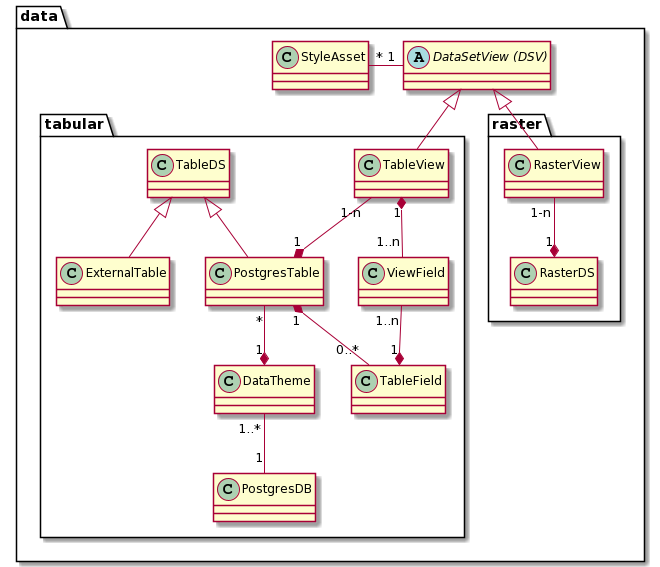
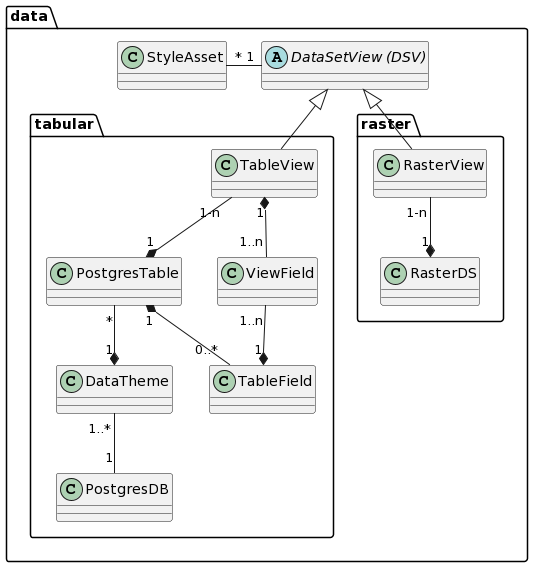
update modeldoc

diff --git a/modeldoc/theme.md b/modeldoc/theme.md
@@ -6,7 +6,7 @@ Bildet die Themen und Themenbereitstellungen ab (Datenbezug)
 
 ## Bemerkung zu den Attributbeschreibungen
 
-Ggf. werden die Beschreibungen mit den Tags $meta $port versehen, damit nach vollzogen werden kann, zu welchen Zwecken ein Attribut geführt wird. Falls weder $meta noch $port angegeben --> Attribut dient "nur" der internen Dokumentation.
+Ggf. werden die Beschreibungen mit den Tags $meta $port versehen, damit nachvollzogen werden kann, zu welchen Zwecken ein Attribut geführt wird. Falls weder $meta noch $port angegeben --> Attribut dient "nur" der internen Dokumentation.
 
 ## Klasse Theme
 
@@ -19,14 +19,66 @@ Im Datenschatz von Solothurn bestehen zwei Haupt-Typen von Themen:
 
 Für die Steuerung der GDI macht es keinen Unterschied, ob ein Thema ein Einzelthema oder eine Themengruppe ist, darum sind Einzelthema, Themengruppe nicht ausmodelliert.
 
+### Attributbeschreibung
+
+|Name|Typ|Z|Beschreibung|
+|---|---|---|---|
+|identifier|String(100)|j|Eindeutiger Identifier des Theme (ch.so.\[Amt\].\[Thema\]).|
+|title|String(200)|j|Angezeigter Titel des Themas.|
+|description|String(1000)|j|Kurze fachliche Bescheibung des Themas. Ziel: < 500 Zeichen Text. Kann HTML-Markup enthalten (\<br\/\>, \<a ...\>\<\/a\>)|
+|remarks|String|n|Interne Bemerkungen.|
+|keywords|String(200)|n|Stichworte. Können auch thematische Überbegriffe sein. Als Json-Array formatiert.|
+|synonyms|String(200)|n|Synonyme, sprich alternative treffende Titel für das Thema. Als Json-Array formatiert.|
+|remarks|String|n|Interne Bemerkungen.|
+
+### Konstraints
+
+UK auf identifier
+
 ## Klasse ThemePublication
 
 Konkrete Bereitstellung(en) eines Themas für einen Nutzungszweck. Beispiel Thema Verkehrszählung: Dessen Daten können lesend eingebunden werden -> Publikation ch.so.avt.verkehrszaelstellen.
 Oder als Quelle von komplexen Weiterverarbeitungen genutzt werden, in welchen die relationale Gliederung von Vorteil ist --> Publikation ch.so.avt.verkehrszaelstellen.edit.
 
+### Attributbeschreibung
+
+|Name|Typ|Z|Beschreibung|
+|---|---|---|---|
+|type|Enum|j|Typ der Publikation: vecSimple, vecRelational, nonVec, other. Bei vec* werden die verfügbaren Dateitypen automatisch hergeleitet.|
+|typeSuffixOverride|String(50)|(n)|Explizit gesetzter Suffix für den identifier. Bsp. **kommunal** für kommunale Nutzungsplanung.|
+|_typeSuffix|String(50)|j|Aus den type* Attributen hergeleiteter Suffix (readonly)|
+
+### Konstraints
+
+UK über _typeSuffix, "FK auf Thema"
+
+## Klasse FileType
+
+Informationen zu einem zum Download bereitgestellten Dateityp. Zip wird nicht erfasst, da immer als Ordner verwendet. Für die Benutzer nicht hilfreich, wenn
+beim Format jeweils immer "zip" steht.
+
+### Attributbeschreibung
+
+|Name|Typ|Z|Beschreibung|
+|---|---|---|---|
+|mimeType|String(255)|j|Mime-Type des Dateityps. Attribut ist auch der identifier für die automatische Zuordnung der "Vektor-Gebrauchsformate".|
+|name|String(100)|j|Sprechender Name des Dateityps.|
+|kuerzel|String(50)|j|$td.|
+
+### Konstraints
+
+UK auf mimeType
+
 ## Klasse DataSetView
 
 Siehe [DataSetView](data.md#klasse-datasetview-dsv) in Teilmodell "Data".
+
+### Konstraints
+
+* Keine Zuweisung auf TableViews mit "Rowfilter-View"
+* Innerhalb der gleichen Themen-Bereitstellung:
+  * TableViews müssen aus dem gleichen Schema stammen
+  * Kein Gemisch von TableView und RasterView
 
 ## Klasse OrgUnit
 
@@ -34,15 +86,46 @@ Organisationseinheit, welche zu den Themen-Bereitstellungen fachlich oder techni
 
 Da die technische Auskunft immer durch das AGI erfolgt, wird nur die Beziehung für die fachliche Auskunft ausmodelliert.
 
+### Attributbeschreibung
+
+Keine Attribute
+
 ## Klasse Agency
 
 Informationen zum Amt (AfU, ARP, AGI, ...). Punktuell ist der Klassenüberbegriff "Amt" nicht ganz zutreffend (Beispielsweise bei Daten der Solothurnischen Gebäudeversicherung).
 
-* Bezeichnung default "Amt" - Zwecks Präzisierung, falls Suborg erfasst, jedoch Amtstelefon angezeigt wird.
+### Attributbeschreibung
+
+|Name|Typ|Z|Beschreibung|
+|---|---|---|---|
+|name|String(100)|j|Name des Amts. Bsp: "Amt für Geoinformation"|
+|kuerzelAmt|String(10)|j|Kürzel für das Amt (AfU, ARP, ...).|
+|kuerzelStufe|String(10)|j|Kürzel für die Stufe. Default: Amt.|
+|url|String(100)|j|URL der Homepage des Amts.|
+|telefon|String(20)|j|Kennung und Vorwahl innerhalb CH: 032 212 66 77|
+|email|String(50)|j|Email-Adresse des Amtes|
+
+### Konstraints
+
+UK auf name   
+UK auf kuerzelAmt
 
 ## Klasse SubOrg
 
 Unterorganisation innerhalb eines Amts. Der Einfachheit halber wird nur eine Hierarchiestufe ausmodelliert (Es gibt keine SubSubOrg). Beispiel für die Erfassung eines Fachbereiches als SubOrg: "Fachbereich Altlasten (Abteilung Boden)"
+
+### Attributbeschreibung
+
+|Name|Typ|Z|Beschreibung|
+|---|---|---|---|
+|name|String(100)|j|Name der Unterorganisation. Bsp: "Abteilung Boden"|
+|url|String(100)|n|URL der Homepage des Amts.|
+|telefon|String(20)|n|Kennung und Vorwahl innerhalb CH: 032 212 66 77|
+|email|String(50)|n|Email-Adresse des Amtes|
+
+### Konstraints
+
+UK auf name und FK zum Amt (Wird nur bei kleinem Aufwand umgesetzt)
 
 ## Klasse DataCoverage
 
@@ -50,26 +133,47 @@ Datenabdeckungs-Ebene für 1-n Themen. Aus der Ebene gehen zwei Informationen he
 * Gibt es Gebiete im Kanton ohne Daten (Datenlücken)?
 * Sind die Daten für den Bezug im mehrere Stücke aufgeteilt? Und wenn ja: In welche Teilflächen (Polygone)?
 
-## Klasse PublishedExtent
-
-Mit dem "LastPublished date" wird in dieser Klasse gespeichert, wann eine Themenpublikation das letzte mal publiziert wurde. LastPublished wird für Vektordaten via GRETL-Publisher geschrieben.
-
-## Klasse Extent
-
-Fläche eines Teilgebietes des Kanton Solothurn.
-
-### Beispiel Attributbeschreibung
+### Attributbeschreibung
 
 |Name|Typ|Z|Beschreibung|
 |---|---|---|---|
-|identifier|String(100)|j|Eindeutiger hierarchischer Identifier des DataProduct (ch.so.fuu.bar).|
-|pubScope|enum|j|Gibt an, in welchen Diensten und Applikationen das DP publiziert ist. Details siehe [hier](../metamodel.md#ebenenpublikation-in-dataproduct).|
-|keywords|String(200)|n|Stichworte für das DataProduct. Können auch thematische Überbegriffe sein.|
-|remarks|String|n|Interne Bemerkungen.|
-|synonyms|String(200)|n|Synonyme für das DataProduct.|
-|title|String(200)|n|Angezeigter Titel (Bezeichnung) des Dataproduct. Falls null in Erstellungsphase wird identifier verwendet.|
-|description|String|n|Beschreibung|
+|identifier|String(100)|j|Eindeutige Kennung der Datenabdeckungs-Ebene|
 
-### Beispiel Konstraints
+### Konstraints
 
-Feld "identifier" ist GDI-weit eindeutig.
+UK auf identifier
+
+## Klasse PublishedArea
+
+Mit dem "LastPublished date" wird in dieser Klasse gespeichert, wann ein Teilgebiet einer Themenpublikation das letzte mal publiziert wurde. LastPublished wird für Vektordaten via GRETL-Publisher geschrieben.
+
+### Attributbeschreibung
+
+|Name|Typ|Z|Beschreibung|
+|---|---|---|---|
+|lastPublished|Date|n|Letzte (aktuellste) Publikation dieses Teils der ThemenBereitstellung. Optional, da für Vektoren vom Publisher (später) gesetzt.|
+
+### Konstraints
+
+UK über die FK
+
+## Klasse Area
+
+Fläche eines Teilgebietes des Kanton Solothurn. Alle 1-n Teilgebiete der gleichen Datenabdeckung bilden zusammen ein AREA-Datensatz, welcher 
+die Datenabdeckung innerhalb des Kt. Solothurn dokumentiert.
+
+Wird mittels GRETL-Job aus dem Schema "agi_meta_coverage" (Modell SO_AGI_Meta_Datenabdeckung_YYYMMMDD) gepflegt (Bulk InsUpdDel).
+
+### Attributbeschreibung
+
+|Name|Typ|Z|Beschreibung|
+|---|---|---|---|
+|identifier|String(100)|j|Eindeutige Kennung des Teilgebiets|
+|coverageIdent|String(100)|j|Kennung der Datenabdeckung des Teilgebiets|
+|coverageRevision|Integer|j|Revision (Version) der Datenabdeckung. Für GRETL Bulk InsUpdDel benötigt.|
+|geomWkb|byte[]|j|Polygon-Geometrie des Teilgebietes als WKB|
+|title|String(255)|n|Sprechender Titel des Teilgebiets|
+
+### Konstraints
+
+UK über identifier, coverageIdent, coverageRevision, 

diff --git a/modeldoc/data.md b/modeldoc/data.md
@@ -102,32 +102,16 @@ UK über FK's.
 "wmsFiFormat" und "displayProps4Json" sind nur aktiv, wenn für die Ebene keine separate FeatureInfo-Konfiguration
  erstellt wurde (Teilmodell Featureinfo).
  
-### Klasse TableDS
-
-Tabelle einer Datenbank der GDI oder eine externe mit Bezug zur GDI
-
-#### Attributbeschreibung
-
-|Name|Typ|Z|Beschreibung|
-|---|---|---|---|
-|tableName|String(100)|j|Name der Tabelle oder View in der Datenbank|
-|remarks|String|n|Interne Bemerkungen zur Tabelle.|
- 
-### Klasse ExternalTable
-
-Tabelle einer externen Datenbank, aus welcher die GDI liest oder schreibt (GRETL).
-
-#### Attributbeschreibung
-
-Keine eigenen Attribute.
- 
 ### Klasse PostgresTable
 
-GDI Postgres-Tabelle oder -View.
+GDI Postgres-Tabelle. In Sonderfällen "in Tandem" mit einer SQL-View.
 
 #### Attributbeschreibung
 |Name|Typ|Z|Beschreibung|
 |---|---|---|---|
+|tableName|String(100)|j|Name der Tabelle in der Datenbank|
+|viewName|String(100)|n|Falls vorhanden: Name der SQL-View|
+|viewIsRowFilter|Boolean|j|Filtert die View Zeilen heraus? Default: Nein|
 |idFieldName|String(100)|j|Name des Unique-Attributs für QGIS Server u. Desktop. Ist meistens die tid.|
 |descriptionModel|String|n|Beschreibung Klasse im INTERLIS-Modell.|
 |descriptionOverride|String|n|Überschreibung der Klassenbeschreibung.|
@@ -135,6 +119,7 @@ GDI Postgres-Tabelle oder -View.
 |geoFieldName|String(100)|n|Name des Geometrieattributes. Null, wenn die Tabelle keine oder mehrere Geometrien umfasst.|
 |geoType|String(100)|n|Name des Geometrietyps. Null, wenn die Tabelle keine oder mehrere Geometrien umfasst.|
 |geoEpsgCode|Integer|n|EPSG-Code des Koordinatensystems. In aller Regel 2056|
+|remarks|String|n|Interne Bemerkungen zur Tabelle.|
 
 ### Klasse TableField
 
@@ -168,10 +153,10 @@ Bezüglich Auslesen des Kataloges mittels SchemaReader bei bestehenden Attribute
 #### Bemerkungen:
 * Die Namen der Attribute werden mittels Katalogabfrage aus Postgres gelesen.
 
-### Klasse DataTheme
+### Klasse Schema
 
-Datenthema, welches 1-n (Geo-)Tabellen umfasst. Synonym für das Schema, welches mittels INTERLIS-Modell
-und ili2pg erzeugt wurde. 
+Schema, welches 1-n (Geo-)Tabellen eines Themas umfasst. Mittels INTERLIS-Modell
+und ili2pg erzeugt. 
 
 Ausblick INTERLIS-Modell: Das Metamodell geht von einer Beziehung 
 Schema 1 : 0..1 Modell aus. Es kann also maximal ein "Gebrauchsmodell" pro Datenthema hinterlegt werden.
@@ -181,6 +166,8 @@ Schema 1 : 0..1 Modell aus. Es kann also maximal ein "Gebrauchsmodell" pro Daten
 |Name|Typ|Z|Beschreibung|
 |---|---|---|---|
 |schemaName|String(100)|j|Name des Schemas.|
+|modelName|String(100)|j|Name des INTERLIS-Modells der öffentlichen Daten.|
+
 
 #### Konstraints
 

diff --git a/modeldoc/product.md b/modeldoc/product.md
@@ -26,7 +26,7 @@ Beispiele:
 |remarks|String|n|Interne Bemerkungen.|
 |synonyms|String(200)|n|Synonyme für das DataProduct.|
 |title|String(200)|n|Angezeigter Titel (Bezeichnung) des Dataproduct. Falls null in Erstellungsphase wird identifier verwendet.|
-|description|String|n|Beschreibung|
+|description|String(1000)|n|Beschreibung. Ziel: < 500 Zeichen Text. Kann HTML-Markup enthalten (\<br\/\>, \<a ...\>\<\/a\>)|
 
 ### Konstraints
 
